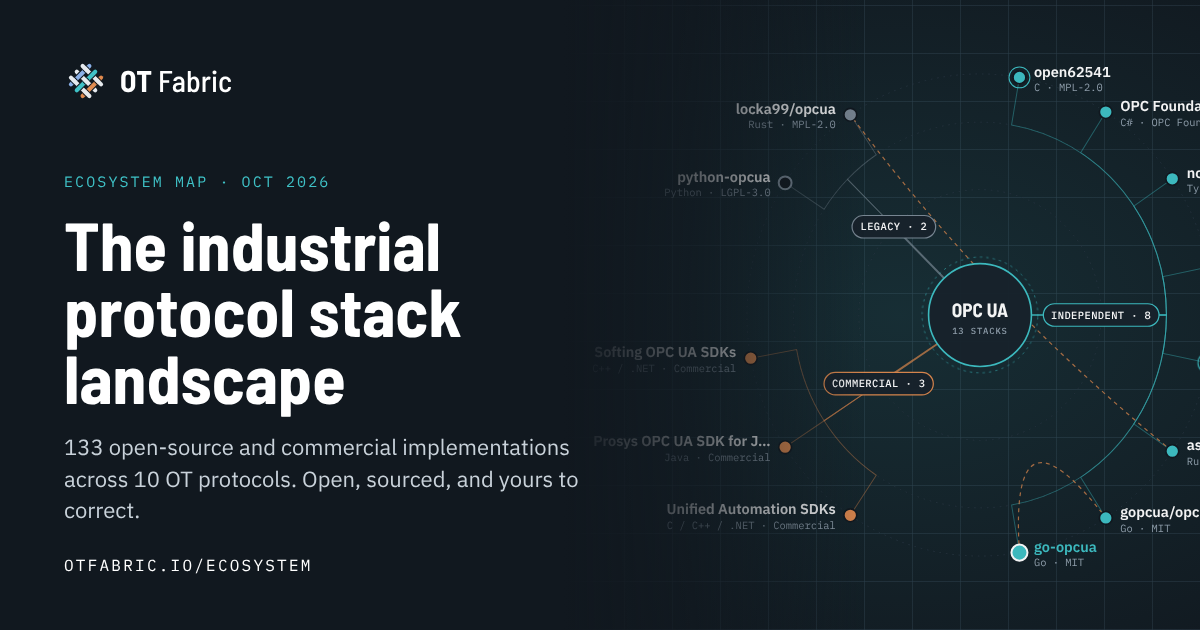
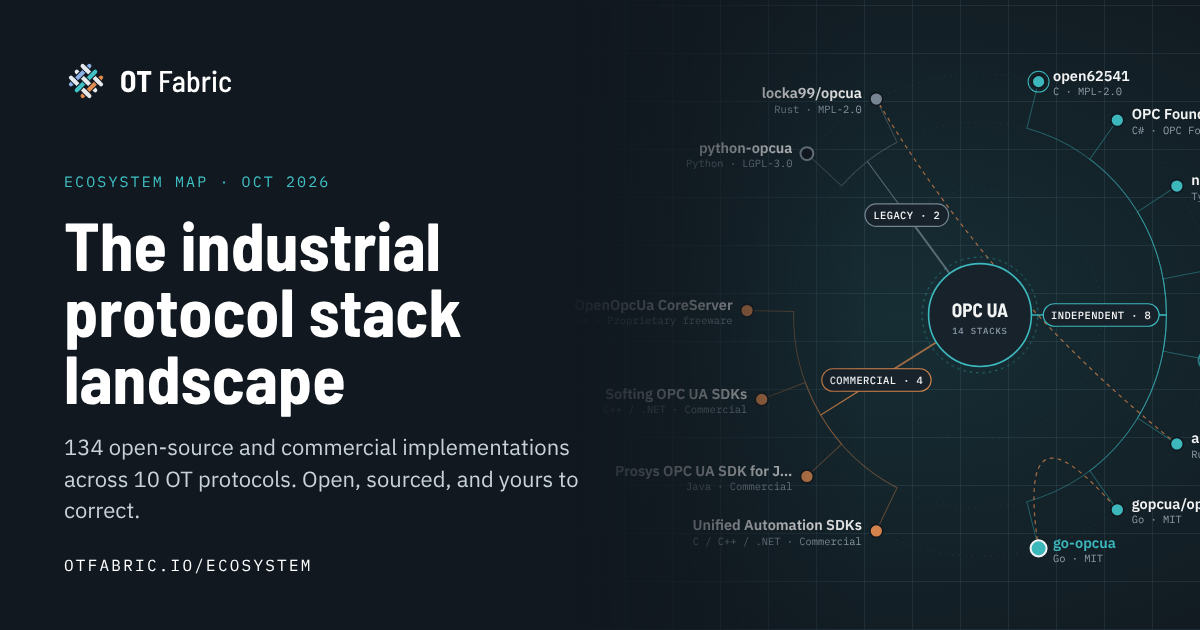
Add OpenOpcUa CoreServer to the ecosystem map (#22)
* Add OpenOpcUa CoreServer entry to ecosystem.json

Add OpenOpcUa CoreServer, developed by 4CE Industry, to the OPC UA protocol stack registry.

OpenOpcUa CoreServer is a native C++ OPC UA implementation used by OOUAMiddleware, a model-driven industrial integration platform.

The implementation supports OPC UA Client/Server communication, information models and NodeSet2, Historical Access, Alarms & Conditions, and OPC UA PubSub (IEC 62541-14) through MQTT Publisher and Subscriber VPIs.

OOUAMiddleware is distributed as freeware, with commercial integration and support services provided by 4CE Industry.

Product documentation:
https://www.openopcua.org/oouamiddleware/

* Place OpenOpcUa CoreServer on the OPC UA map and update totals

The contributed entry landed in the protocols list instead of
implementations, so it would have shown up as an eleventh protocol.
It now sits with the other OPC UA vendor products, with fields aligned
to what openopcua.org documents: C/C++, client and server, NodeSet2
address space, Historical Access, alarms and events, redundancy and
MQTT publisher/subscriber VPIs. Proprietary freeware now files under the
Commercial licence family instead of falling through to Permissive.

Totals move to 134 stacks in the landscape post, which also names
OpenOpcUa next to the OPC UA SDK vendors, and the map link card is
re-rendered.

Claude-Session: https://claude.ai/code/session_01GzvCXrxubn5bmcCQNyqJtn

---------

diff --git a/src/data/ecosystem.ts b/src/data/ecosystem.ts
@@ -89,7 +89,8 @@ export const maintenanceLabels: Record<string, string> = {
 
 /** Coarse licence family, used for filtering. The SPDX string stays the source of truth. */
 export function licenseFamily(license: string) {
-	if (license === 'Commercial') return 'Commercial';
+	// Proprietary freeware has no licence fee but is closed source, so it sits with the vendor products.
+	if (license === 'Commercial' || /proprietary/i.test(license)) return 'Commercial';
 	if (/non-commercial/i.test(license)) return 'Source-available';
 	if (/WITH|LGPL|MPL|EPL/.test(license)) return 'Weak copyleft';
 	if (/GPL/.test(license)) return 'Copyleft';
